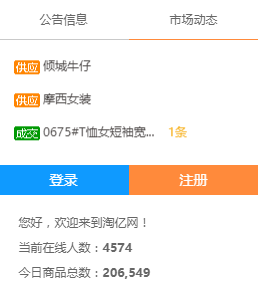
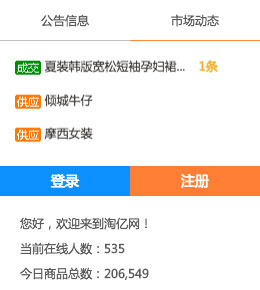
首页先用图片补全

diff --git a/taoyi_main_site/static/assets/css/taoee.css b/taoyi_main_site/static/assets/css/taoee.css
@@ -57,16 +57,20 @@ body {
 .home {
   min-height: 400px;
 }
+.banner-con {
+  margin-bottom: 10px;
+}
 .banner-con .menu {
   position: relative;
   width: 220px;
   height: 450px;
+  margin-left: -100%;
   z-index: 777;
 }
 .banner-con .menu .menu-li {
   padding: 15px 0 0 20px;
   width: 217px;
-  height: 74px;
+  height: 75px;
   background: #fff;
   border-left: 3px solid #fff;
   border-bottom: 1px dashed #ddd;
@@ -113,7 +117,7 @@ body {
   top: 0;
   left: 216px;
   width: 710px;
-  height: 445px;
+  height: 450px;
   border: 1px solid #ddd;
   background: #fafafa;
 }
@@ -154,4 +158,27 @@ body {
 }
 .banner-con .menu .menu-li .menu-con .pro-right .pro-type-block .pro-type-child span a {
   padding: 1px 0;
+}
+.banner-con .banner {
+  width: 100%;
+}
+.banner-con .banner .inner {
+  margin-left: 220px;
+  margin-right: 260px;
+}
+.banner-con .banner .inner .rob {
+  width: 710px;
+  padding: 10px;
+}
+.banner-con .banner .inner .rob .row {
+  margin: 0;
+  padding: 15px;
+  background: #fff;
+}
+.banner-con .dynamic {
+  width: 260px;
+  margin-left: -260px;
+}
+.banner-con .dynamic .dynamic-min {
+  margin-top: 10px;
 }

diff --git a/taoyi_main_site/static/assets/less/taoee.less b/taoyi_main_site/static/assets/less/taoee.less
@@ -11,17 +11,19 @@ body{
 }
 
 .banner-con{
+  margin-bottom: 10px;
   // 侧边菜单导航
   .menu{
     position: relative;
     width: 220px;
     height: 450px;
+    margin-left: -100%;
     z-index: 777;
 
     .menu-li{
       padding: 15px 0 0 20px;
       width: 217px;
-      height: 74px;
+      height: 75px;
       background: #fff;
       border-left: 3px solid #fff;
       border-bottom: 1px dashed #ddd;
@@ -70,7 +72,7 @@ body{
         top: 0;
         left: 216px;
         width: 710px;
-        height: 445px;
+        height: 450px;
         border: 1px solid #ddd;
         background: #fafafa;
         .pro-left{
@@ -116,4 +118,31 @@ body{
       }
     }
   }
+  //焦点图
+  .banner{
+    width: 100%;
+    .inner{
+      margin-left: 220px;
+      margin-right: 260px;
+      .rob{
+        width: 710px;
+        padding: 10px;
+        .row{
+          margin: 0;
+          padding: 15px;
+          background: #fff;
+        }
+      }
+    }
+  }
+  //公告
+  .dynamic{
+    width: 260px;
+    margin-left: -260px;
+
+    .dynamic-min{
+      margin-top: 10px; 
+    }
+  }
+
 }

diff --git a/taoyi_main_site/static/assets/less/common.less b/taoyi_main_site/static/assets/less/common.less
@@ -25,6 +25,7 @@
 // //调用z-index
 // .z-loop(9);
 
+
 a,a:link,a:visited,a:focus{text-decoration:none;}
 h1, h2, h3, h4, h5, h6 {margin-top: 0;margin-bottom: 0;}
 .img-100{width: 100%;}
